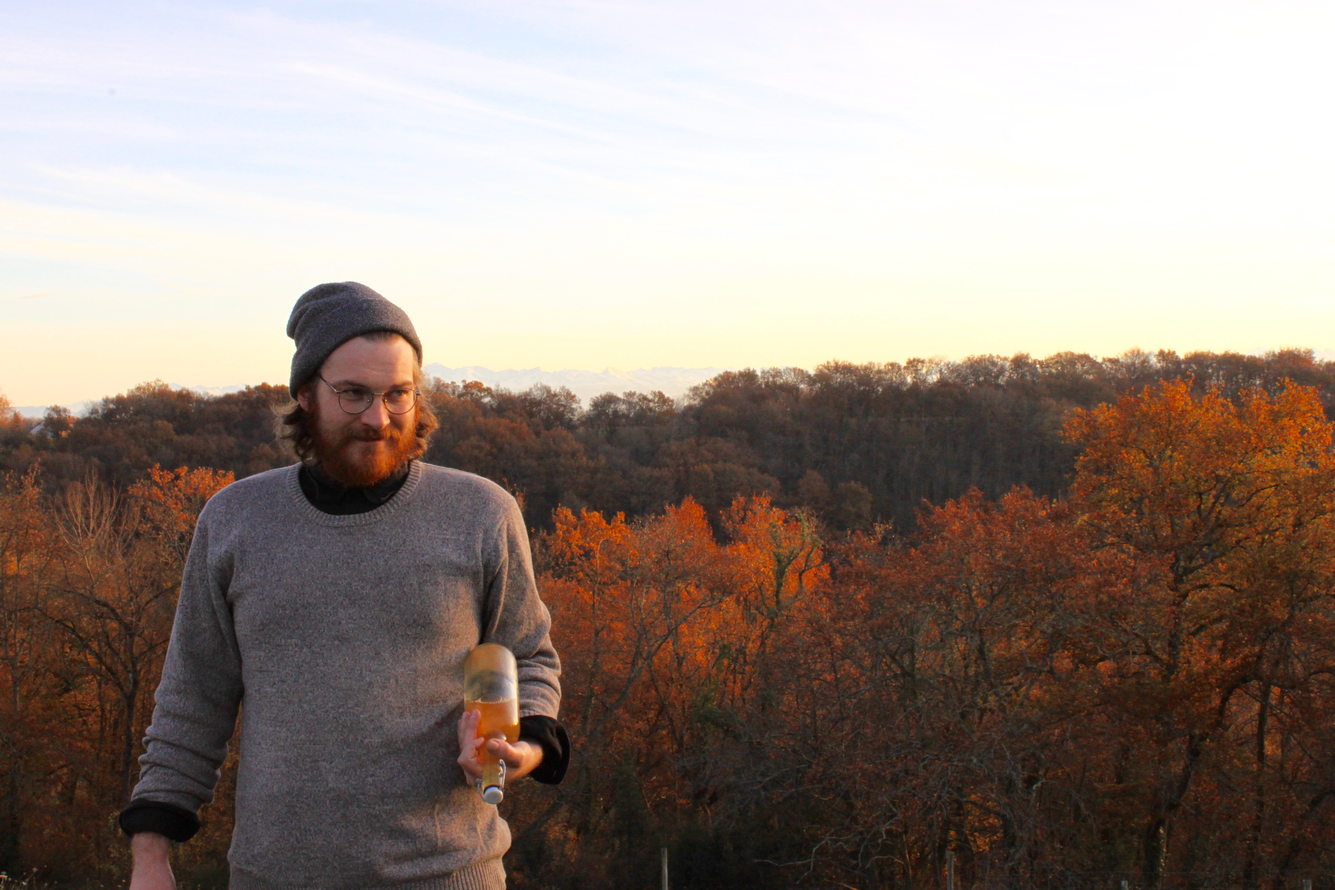
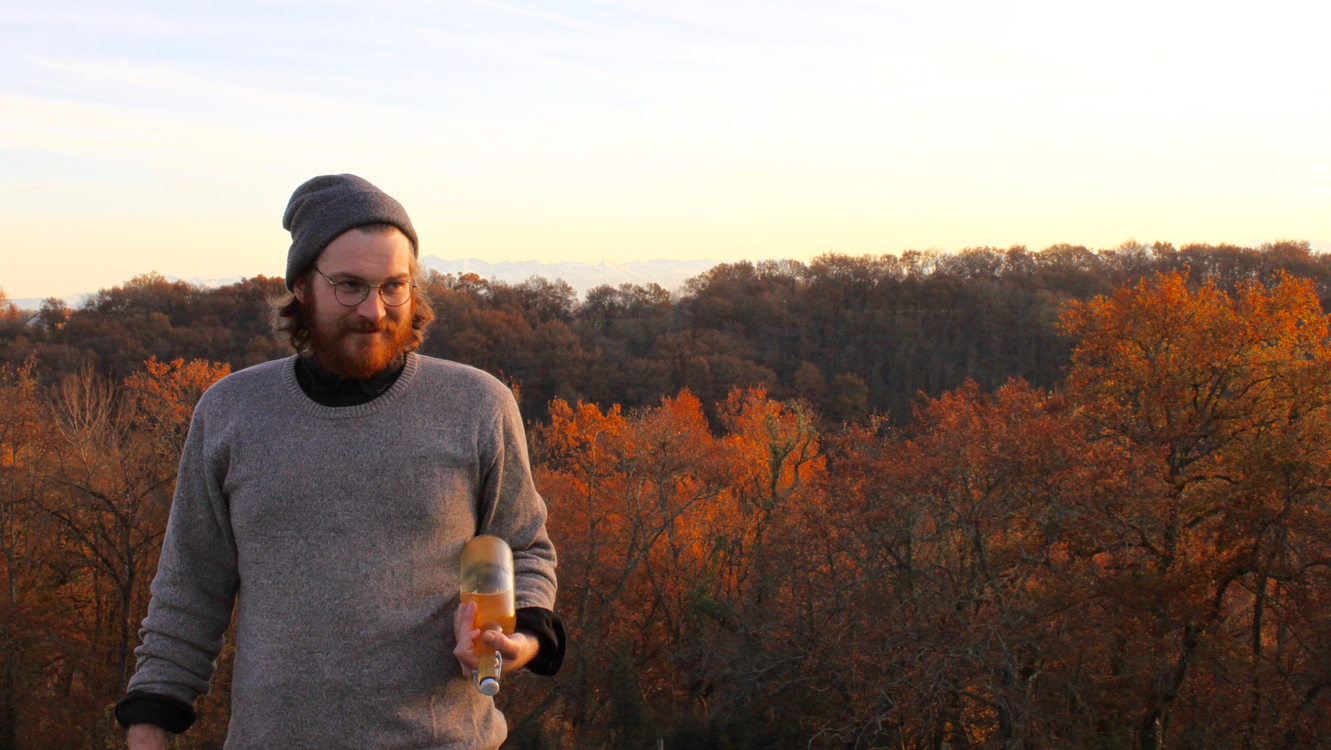
photos

diff --git a/index.html b/index.html
@@ -41,7 +41,7 @@
 
 
     <section class="header">
-      <div class="banner text-center" style="background: linear-gradient(-225deg, rgba(0,101,168,0.2) 0%, rgba(0,36,61,0.2) 50%), url('images/apiculteurbanner.jpg');">
+      <div class="banner text-center" style="background: linear-gradient(-225deg, rgba(0,101,168,0.2) 0%, rgba(0,36,61,0.2) 50%), url('images/brasseurarbres.jpg');">
         <div class="banner-content">
           <img src="images/logo.png" alt="logo">
           <p>Plateforme de vente de miel</p>
@@ -70,7 +70,7 @@
     </div>
 
     <div>
-      <div class="background-section" style="background: url('https://unsplash.it/1000/500?image=0');">
+      <div class="background-section" style="background: url('images/cadremontagne.jpg');">
         <div class="content-section">
           <h2>Argument 1</h2>
           <p>Some arguments</p>
@@ -80,7 +80,7 @@
 
     <div class="row">
       <div class="col-xs-12 col-sm-6">
-        <img class="img-thumbnail" src="https://unsplash.it/1000/500?image=4" alt="">
+        <img class="img-thumbnail" src="images/ruchesmontagne.jpg" alt="">
       </div>
       <div class="plain-container">
         <div class="col-xs-12 col-sm-6">
@@ -93,7 +93,7 @@
     </div>
 
     <div>
-      <div class="background-section" style="background: url('https://unsplash.it/1000/500?image=2');">
+      <div class="background-section" style="background: url('images/fermentationlabo.jpg');">
         <div class="content-section">
           <h2>Argument 3</h2>
           <p>Some arguments</p>

diff --git a/style.css b/style.css
@@ -1,7 +1,7 @@
 .banner {
   color: white;
   background-size: cover !important;
-  height: 70vh;
+  height: 100vh;
   display: flex;
   align-items: center;
   justify-content: center;
@@ -54,7 +54,8 @@ a:hover {
 .background-section {
   position: relative;
   background-size: cover !important;
-  height: 50vh;
+  background-position: bottom right;
+  height: 80vh;
 }
 
 .content-section {
